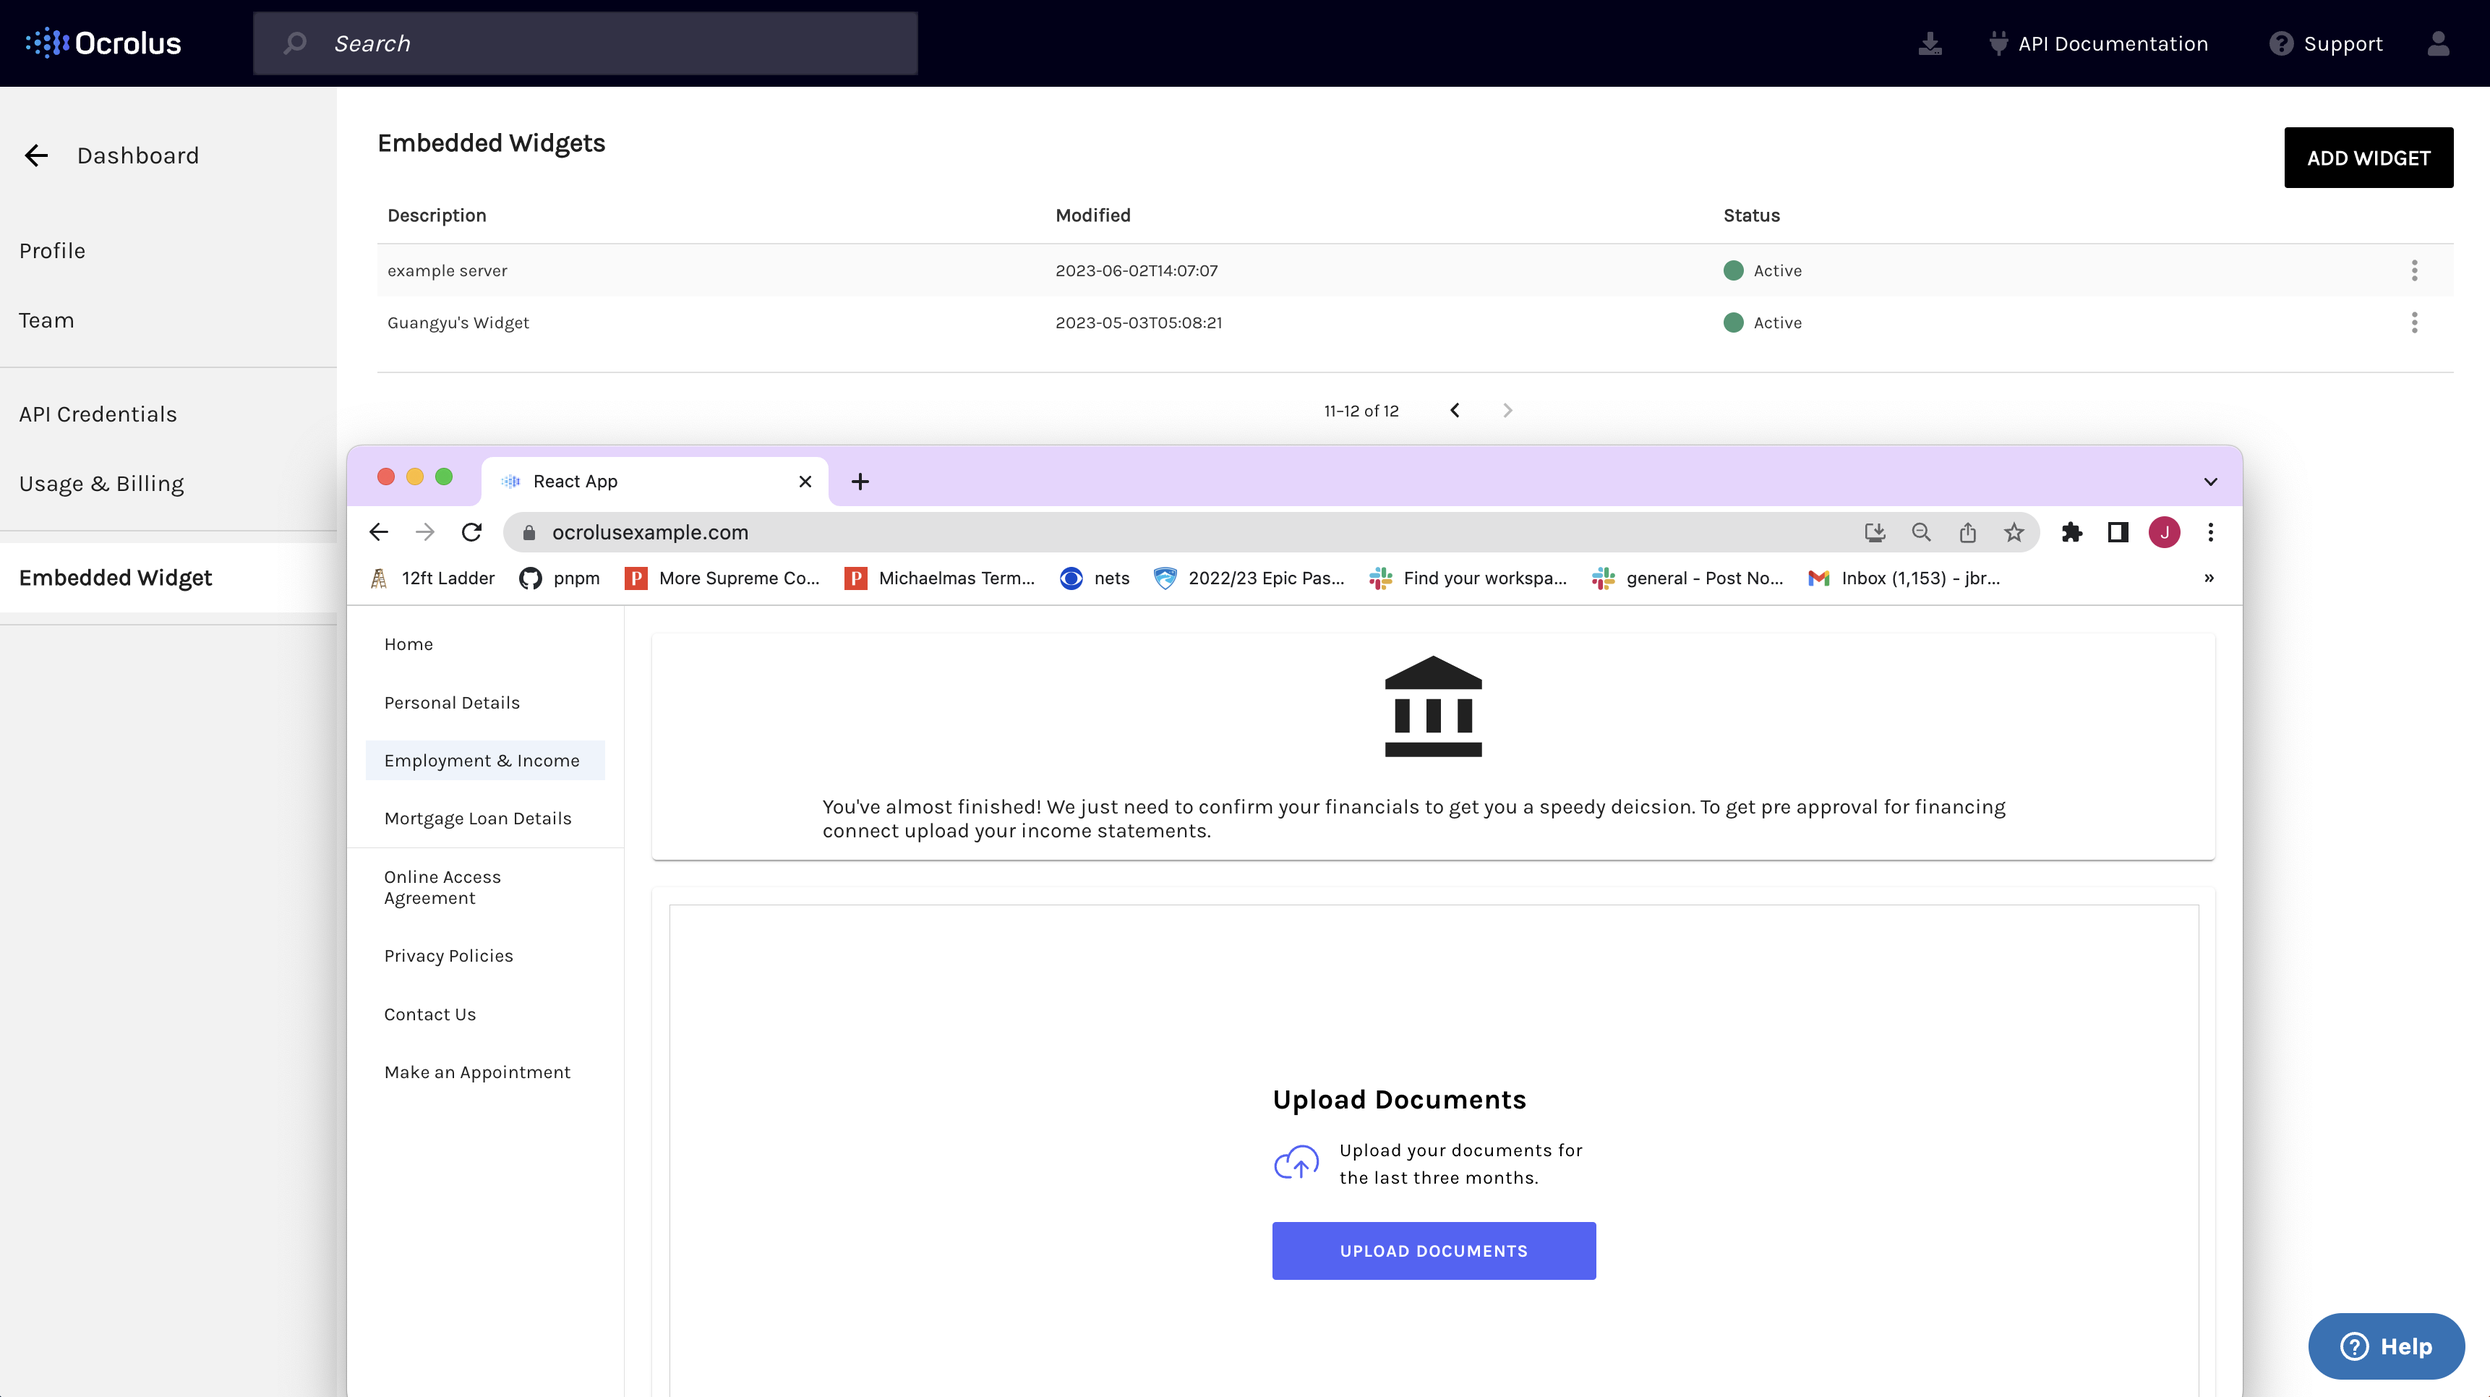
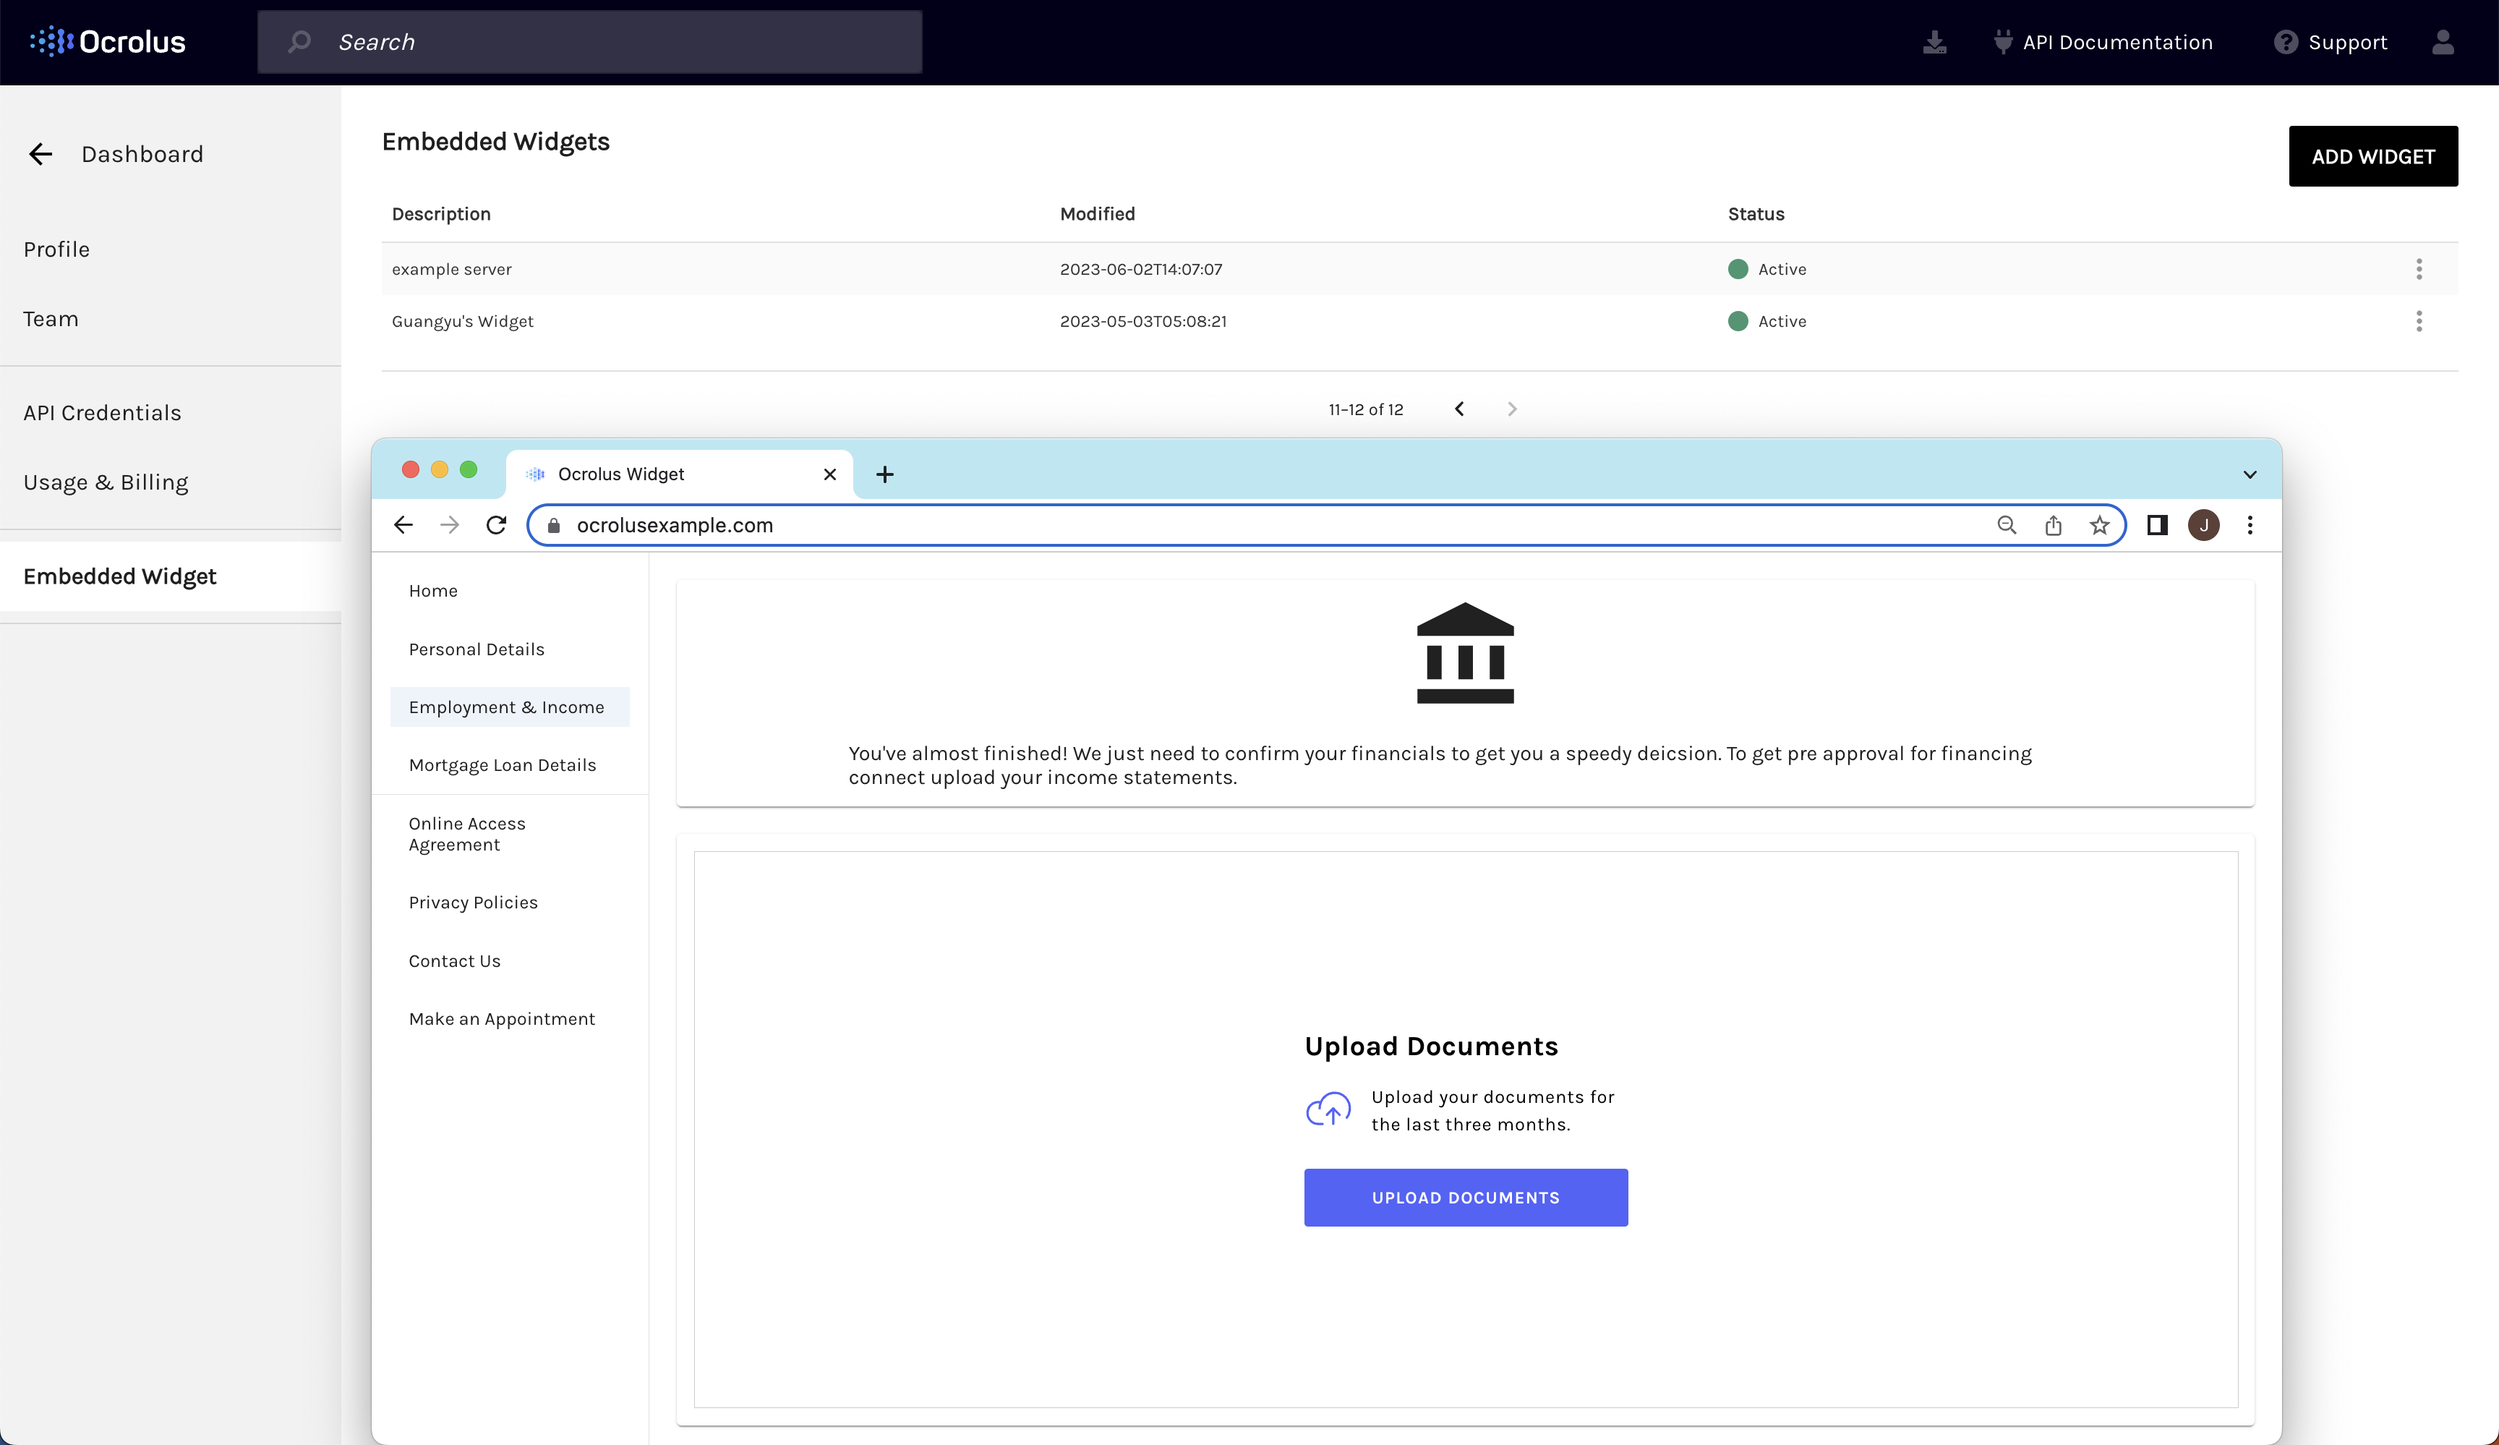
fix: prune docs

diff --git a/frontend/public/index.html b/frontend/public/index.html
@@ -27,7 +27,7 @@
       work correctly both with client-side routing and a non-root public URL.
       Learn how to configure a non-root public URL by running `npm run build`.
     -->
-    <title>React App</title>
+    <title>Ocrolus Widget</title>
   </head>
   <body>
     <noscript>You need to enable JavaScript to run this app.</noscript>

diff --git a/frontend/README.md b/frontend/README.md
@@ -1,6 +1,6 @@
-# Getting Started with Create React App
+# Getting Started with Ocrolus Widget
 
-This project was bootstrapped with [Create React App](https://github.com/facebook/create-react-app).
+This is a simple example frontend client to simulate a client environment for widget built with create react app
 
 ## Available Scripts
 
@@ -28,19 +28,3 @@ The build is minified and the filenames include the hashes.\
 Your app is ready to be deployed!
 
 See the section about [deployment](https://facebook.github.io/create-react-app/docs/deployment) for more information.
-
-### `npm run eject`
-
-**Note: this is a one-way operation. Once you `eject`, you can’t go back!**
-
-If you aren’t satisfied with the build tool and configuration choices, you can `eject` at any time. This command will remove the single build dependency from your project.
-
-Instead, it will copy all the configuration files and the transitive dependencies (webpack, Babel, ESLint, etc) right into your project so you have full control over them. All of the commands except `eject` will still work, but they will point to the copied scripts so you can tweak them. At this point you’re on your own.
-
-You don’t have to ever use `eject`. The curated feature set is suitable for small and middle deployments, and you shouldn’t feel obligated to use this feature. However we understand that this tool wouldn’t be useful if you couldn’t customize it when you are ready for it.
-
-## Learn More
-
-You can learn more in the [Create React App documentation](https://facebook.github.io/create-react-app/docs/getting-started).
-
-To learn React, check out the [React documentation](https://reactjs.org/).
